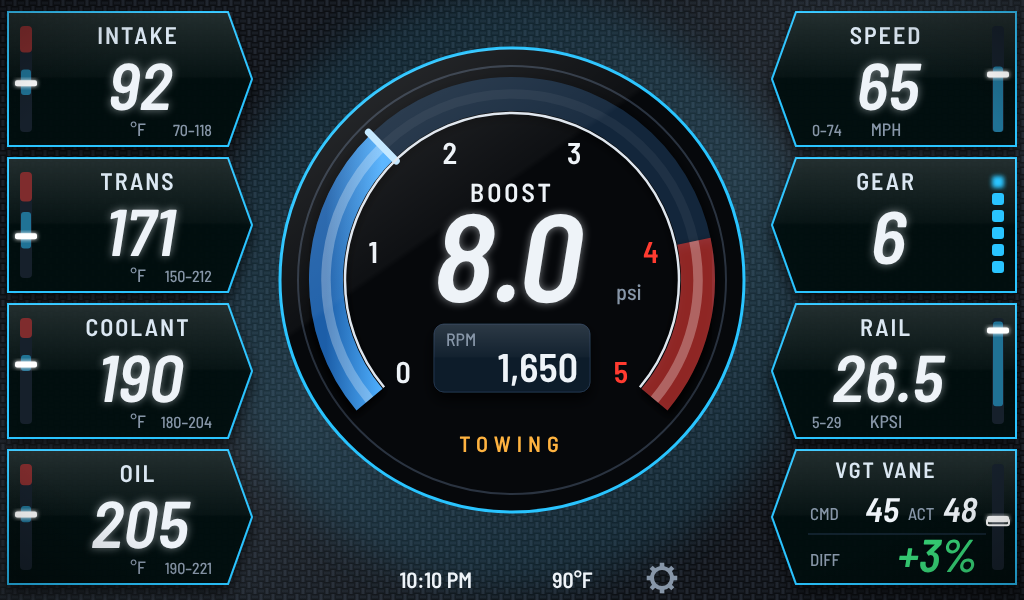
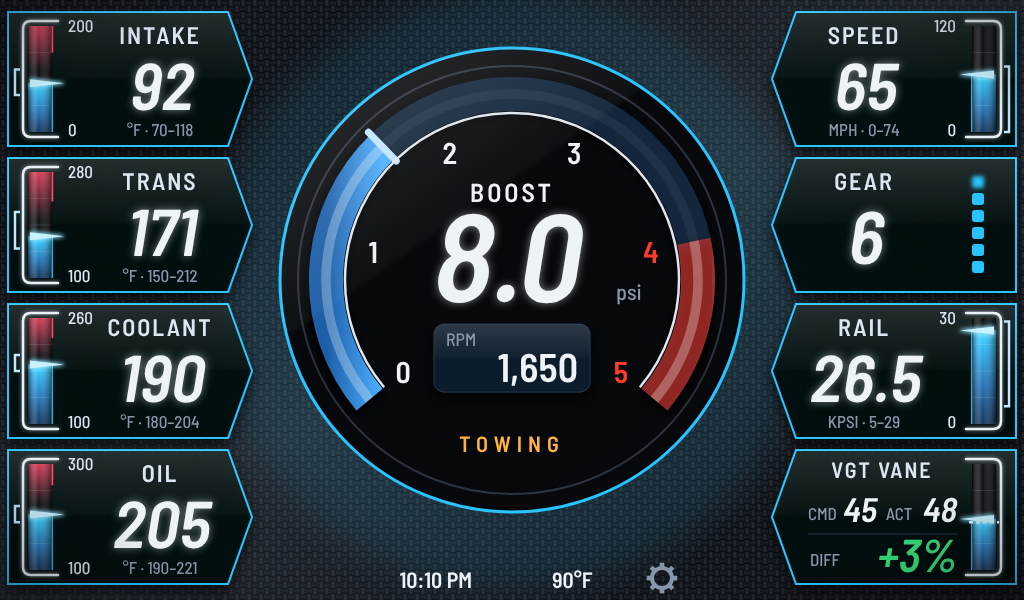
Mockups v2: P3 premium vertical bars (frame, fade fill, pointer, red zone, drive min-max bracket)
Claude-Session: https://claude.ai/code/session_01NB1fkpFcGY28RY4JZ8NWPC

diff --git a/docs/mockups/v2.html b/docs/mockups/v2.html
@@ -297,31 +297,54 @@ pages.premium_towing=()=>{const CX=512,CY=280;const CY2='#29c4ff';
   o+=T(CX,CY+172,22,'TOWING',{c:C.amber,ls:6,f:'C6'});
   o+=T(CX-40,588,22,'10:10 PM',{a:'end',f:'C6'})+T(CX+40,588,22,'90°F',{a:'start',f:'C6'})+cog(CX+150,578);
   // side panels with a range bar on the straight edge: normal range, red zone, this drive's min-max, and now
-  function rbar(x,y,h,mn,mx,red,lo,hi,now,o2={}){const Y=v=>y+h-h*(Math.min(Math.max(v,mn),mx)-mn)/(mx-mn);let g='';
-    g+=`<rect x="${x}" y="${y}" width="12" height="${h}" rx="4" fill="#16202b"/>`;
-    if(red!=null)g+=`<rect x="${x}" y="${y}" width="12" height="${n1(Y(red)-y)}" rx="4" fill="${C.red}" opacity=".45"/>`;
-    if(lo!=null)g+=`<rect x="${x+1}" y="${n1(Y(hi))}" width="10" height="${n1(Y(lo)-Y(hi))}" rx="3" fill="${CY2}" opacity=".5"/>`;
-    if(o2.cmd!=null)g+=`<rect x="${x-5}" y="${n1(Y(o2.cmd)-3)}" width="22" height="6" rx="2" fill="none" stroke="#fff" stroke-width="2"/>`;
-    const hot=red!=null&&now>=red;g+=`<rect x="${x-5}" y="${n1(Y(now)-3)}" width="22" height="6" rx="2" fill="${hot?C.red:'#fff'}" filter="url(#glow2)"/><rect x="${x-5}" y="${n1(Y(now)-3)}" width="22" height="6" rx="2" fill="${hot?C.red:'#fff'}"/>`;return g}
+  // Premium vertical bar: outline frame, red zone fading down, fill fading down from a bright top edge, pointer wedge,
+  // dividers, tube shading, scale numbers, and this drive's min-max as a bracket outside the frame.
+  let RB=0;
+  function rbar(x,y,h,mn,mx,red,lo,hi,now,o2={}){const W=24,left=o2.left!==false,Y=v=>y+h-h*(Math.min(Math.max(v,mn),mx)-mn)/(mx-mn);
+    const id='rb'+(RB++),hot=red!=null&&now>=red,col=hot?C.red:CY2,yn=Y(now);let g='';
+    g+=`<defs><linearGradient id="${id}f" x1="0" y1="0" x2="0" y2="1"><stop offset="0" stop-color="${hot?'#ff5a6e':'#5fd4ff'}"/><stop offset=".12" stop-color="${col}"/><stop offset=".6" stop-color="${hot?'#a8152a':'#1b78c8'}" stop-opacity=".9"/><stop offset="1" stop-color="${hot?'#4a0a14':'#0d3d73'}" stop-opacity=".75"/></linearGradient>
+      <linearGradient id="${id}r" x1="0" y1="0" x2="0" y2="1"><stop offset="0" stop-color="#ff3b5c" stop-opacity=".85"/><stop offset="1" stop-color="#ff3b5c" stop-opacity="0"/></linearGradient>
+      <linearGradient id="${id}t" x1="0" y1="0" x2="1" y2="0"><stop offset="0" stop-color="#000" stop-opacity=".55"/><stop offset=".32" stop-color="#fff" stop-opacity=".18"/><stop offset=".45" stop-color="#fff" stop-opacity=".04"/><stop offset="1" stop-color="#000" stop-opacity=".5"/></linearGradient></defs>`;
+    g+=`<rect x="${x}" y="${y}" width="${W}" height="${h}" fill="#05080c"/>`;
+    if(red!=null){const yr=Y(red);g+=`<rect x="${x}" y="${y}" width="${W}" height="${n1(yr-y+18)}" fill="url(#${id}r)"/>`+
+      `<line x1="${left?x+W:x}" y1="${y}" x2="${left?x+W:x}" y2="${n1(yr)}" stroke="#ff4d6a" stroke-width="2.5"/>`}
+    g+=`<rect x="${x}" y="${n1(yn)}" width="${W}" height="${n1(y+h-yn)}" fill="url(#${id}f)"/>`;
+    g+=`<line x1="${left?x+W:x}" y1="${n1(yn)}" x2="${left?x+W:x}" y2="${y+h}" stroke="${col}" stroke-width="2" opacity=".9"/>`;
+    for(let k=1;k<4;k++)g+=`<line x1="${x}" y1="${n1(y+h*k/4)}" x2="${x+W}" y2="${n1(y+h*k/4)}" stroke="#fff" stroke-opacity=".12"/>`;
+    g+=`<rect x="${x}" y="${y}" width="${W}" height="${h}" fill="url(#${id}t)"/>`;
+    if(o2.cmd!=null){const yc=Y(o2.cmd);g+=`<line x1="${x-3}" y1="${n1(yc)}" x2="${x+W+3}" y2="${n1(yc)}" stroke="#fff" stroke-width="2.5" stroke-dasharray="4 3"/>`}
+    // pointer wedge toward the scale
+    const tip=left?x+W+12:x-12,base=left?x+2:x+W-2;
+    g+=`<polygon points="${base},${n1(yn-5)} ${tip},${n1(yn-1)} ${tip},${n1(yn+1)} ${base},${n1(yn+5)}" fill="${hot?'#ff6b6b':'#8fe3ff'}" filter="url(#glow2)"/><polygon points="${base},${n1(yn-4)} ${tip},${n1(yn)} ${base},${n1(yn+4)}" fill="${hot?'#ff8a8a':'#c9f1ff'}"/>`;
+    // outline frame on the outer side, rounded, with a top cap and bottom foot
+    const fx=left?x-5:x+W+5,cap=left?x+W+6:x-6;
+    g+=`<path d="M${cap},${y-5} H${fx+(left?8:-8)} Q${fx},${y-5} ${fx},${y+3} V${y+h-3} Q${fx},${y+h+5} ${fx+(left?8:-8)},${y+h+5} H${cap}" fill="none" stroke="#e9f1f8" stroke-width="2.5" stroke-linecap="round" filter="url(#glow2)" opacity=".6"/>`+
+       `<path d="M${cap},${y-5} H${fx+(left?8:-8)} Q${fx},${y-5} ${fx},${y+3} V${y+h-3} Q${fx},${y+h+5} ${fx+(left?8:-8)},${y+h+5} H${cap}" fill="none" stroke="#e9f1f8" stroke-width="2.5" stroke-linecap="round"/>`;
+    // scale numbers
+    const lx=left?x+W+16:x-16,an=left?'start':'end',fm=v=>Number.isInteger(v)?v:v.toFixed(0);
+    if(!o2.nolab)g+=T(lx,y+6,17,fm(mx),{a:an,f:'C5',c:'#dbe7f2'})+T(lx,y+h+4,17,fm(mn),{a:an,f:'C5',c:'#dbe7f2'});
+    // this drive's min-max bracket outside the frame
+    if(lo!=null){const bxx=left?fx-8:fx+8,yh=Y(hi),yl=Y(lo);g+=`<path d="M${bxx+(left?5:-5)},${n1(yh)} H${bxx} V${n1(yl)} H${bxx+(left?5:-5)}" fill="none" stroke="#bfe9ff" stroke-width="2.5"/>`}
+    return g}
   const L=[['INTAKE',V.iat,'°F',[0,200,150,70,118]],['TRANS',V.trans,'°F',[100,280,230,150,212]],['COOLANT',V.cool,'°F',[100,260,230,180,204]],['OIL',V.oil,'°F',[100,300,260,190,221]]];
   const Rr=[['SPEED',V.mph,'MPH',[0,120,null,0,74]],['GEAR',V.gear,'',null],['RAIL',26.5,'KPSI',[0,30,null,5,29]],['VGT',null,'',null]];
   [[L,true],[Rr,false]].forEach(([items,left])=>items.forEach(([lab,val,u,rng],i)=>{const y=12+i*146,x=left?8:772,w=244,h=134;
     const pts=left?`${x},${y} ${x+w-24},${y} ${x+w},${y+h/2} ${x+w-24},${y+h} ${x},${y+h}`:`${x+24},${y} ${x+w},${y} ${x+w},${y+h} ${x+24},${y+h} ${x},${y+h/2}`;
     o+=`<polygon points="${pts}" fill="#06080bcc" stroke="${CY2}" stroke-width="2"/>`;
-    const bx=left?x+12:x+w-24,cx=x+w/2+(left?8:-8);
+    const bx=left?x+20:x+w-44,cx=x+w/2+(left?30:-30);
     if(lab=='VGT'){const cmd=45,act=V.vgt,diff=act-cmd,dc=Math.abs(diff)>=10?C.red:Math.abs(diff)>=5?C.amber:C.green;
-      o+=T(cx,y+28,22,'VGT VANE',{f:'C6',c:'#dbe7f2',ls:2});
-      o+=T(x+38,y+70,17,'CMD',{a:'start',c:C.dim,f:'C5'})+sk(x+126,y+72,34,cmd,{a:'end'});
-      o+=T(x+136,y+70,17,'ACT',{a:'start',c:C.dim,f:'C5'})+sk(x+204,y+72,34,act,{a:'end'});
-      o+=`<line x1="${x+36}" y1="${y+84}" x2="${x+214}" y2="${y+84}" stroke="#22364d"/>`;
-      o+=T(x+38,y+116,17,'DIFF',{a:'start',c:C.dim,f:'C5'})+sk(x+204,y+122,46,(diff>0?'+':'')+diff+'%',{a:'end',c:dc});
-      o+=rbar(bx,y+14,h-28,0,100,null,null,null,act,{cmd});return}
+      o+=T(x+110,y+28,22,'VGT VANE',{f:'C6',c:'#dbe7f2',ls:2});
+      o+=T(x+36,y+70,17,'CMD',{a:'start',c:C.dim,f:'C5'})+sk(x+104,y+72,34,cmd,{a:'end'});
+      o+=T(x+114,y+70,17,'ACT',{a:'start',c:C.dim,f:'C5'})+sk(x+184,y+72,34,act,{a:'end'});
+      o+=`<line x1="${x+36}" y1="${y+84}" x2="${x+186}" y2="${y+84}" stroke="#22364d"/>`;
+      o+=T(x+38,y+116,17,'DIFF',{a:'start',c:C.dim,f:'C5'})+sk(x+184,y+122,46,(diff>0?'+':'')+diff+'%',{a:'end',c:dc});
+      o+=rbar(bx,y+14,h-28,0,100,null,null,null,act,{cmd,left,nolab:1});return}
     if(lab=='GEAR'){o+=T(cx,y+32,24,lab,{f:'C6',c:'#dbe7f2',ls:2})+sk(cx,y+106,74,val);
       for(let g=1;g<=6;g++){const py=y+h-14-g*17;o+=`<rect x="${bx}" y="${py}" width="12" height="12" rx="3" fill="${g<=+val?CY2:'#16202b'}"${g==+val?' filter="url(#glow2)"':''}/>`}return}
     const hot=rng&&rng[2]!=null&&val>=rng[2];
-    o+=T(cx,y+32,24,lab,{f:'C6',c:'#dbe7f2',ls:2})+sk(cx,y+98,66,val,{c:hot?C.red:C.text})+(u?T(cx,y+124,18,u,{c:C.dim,f:'C5'}):'');
-    if(rng)o+=rbar(bx,y+14,h-28,rng[0],rng[1],rng[2],rng[3],rng[4],val);
-    o+=T(left?x+w-40:x+40,y+124,16,rng&&rng[3]!=null?`${rng[3]}–${rng[4]}`:'',{a:left?'end':'start',c:C.dim,f:'C5'})}));
+    o+=T(cx,y+32,24,lab,{f:'C6',c:'#dbe7f2',ls:2})+sk(cx,y+98,66,val,{c:hot?C.red:C.text})+T(cx,y+124,17,[u,rng&&rng[3]!=null?rng[3]+'–'+rng[4]:''].filter(Boolean).join('  ·  '),{c:C.dim,f:'C5'});
+    if(rng)o+=rbar(bx,y+14,h-28,rng[0],rng[1],rng[2],rng[3],rng[4],val,{left});
+}));
   if(q.get('pick')){o+=`<rect width="1024" height="600" fill="#000" opacity=".72"/>`;
     o+=`<rect x="92" y="44" width="840" height="512" rx="18" fill="#0b131d" stroke="${CY2}" stroke-width="2"/>`;
     o+=T(124,96,30,'Show in the center',{a:'start',f:'C6'})+T(124,126,20,'Press and hold any reading to change it',{a:'start',c:C.dim,f:'C5'});

diff --git a/docs/mockups/v2/KEY.md b/docs/mockups/v2/KEY.md
@@ -7,7 +7,7 @@ renders are in `numbered/`.
 |---|---|
 | **P1** Premium Daily | 1 tach that wraps into the top bar · 2 gear dial · 3 center card (boost/trans/MPG) · 4 speedo · 5 odometer · 6 coolant · 7 fuel % and range · 8 clock/date bar |
 | **P2** Premium Sport | 1 big center tach · 2 speed · 3 gear · 4 red-zone glow · 5 coolant bar · 6 trans bar · 7 boost bar · 8 oil bar |
-| **P3** Premium Towing (rev 2) | 1 boost (center) · 2 RPM arc · 3 RPM box · 4 left panels (intake/trans/coolant/oil) · 5 right panels (speed/gear/rail/VGT) · 6 range bars: normal range, red zone, this drive's min–max, and now · 7 VGT vane: CMD, ACT and DIFF (amber at 5%, red at 10%) |
+| **P3** Premium Towing (rev 2) | 1 boost (center) · 2 RPM arc · 3 RPM box · 4 left panels (intake/trans/coolant/oil) · 5 right panels (speed/gear/rail/VGT) · 6 premium vertical bars: outline frame, red zone fading down, fill fading down from a bright top edge, pointer at now, scale min/max, this drive's min–max as a bracket outside the frame (also printed under the value) · 7 VGT vane: CMD, ACT and DIFF (amber at 5%, red at 10%) |
 | **P4** Premium Economy | 1 open-arc tach · 2 speed · 3 gear · 4 fuel bar · 5 fuel % and range · 6 trip/tank boxes · 7 MPG bar with tank-avg marker · 8 MPG now/trip/last 10 · 9 telltales |
 | **P5** Premium Trend | 1 channel list · 2 live values · 3 chart · 4 tap cursor · 5 min/avg/max · 6 time window buttons |
 | **C1** Classic Daily | 1 digital speed/gear window · 2 sweep speedo · 3 odometer · 4 round tach · 5 temp/trans window · 6 boost/fuel window · 7 clock |
